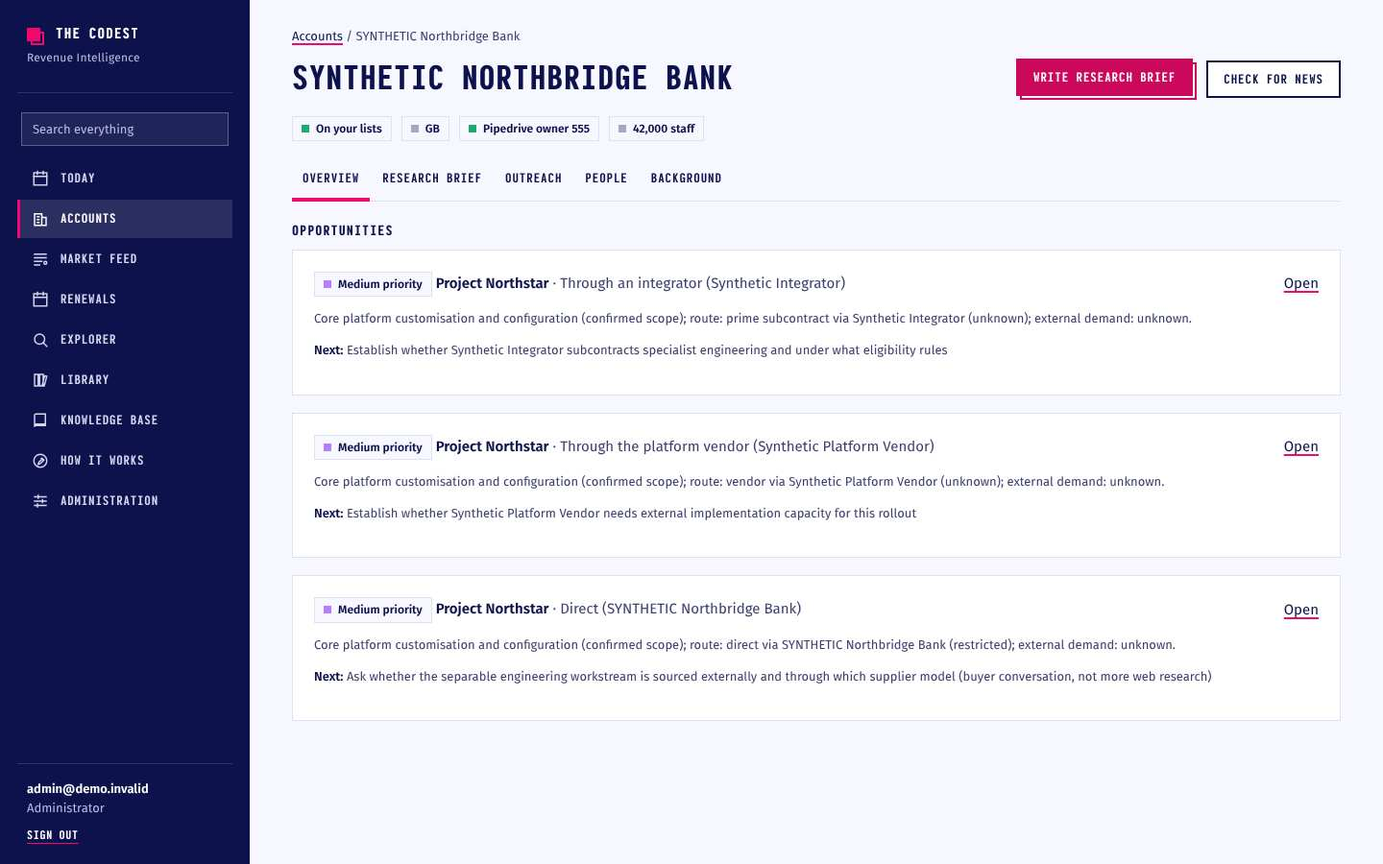
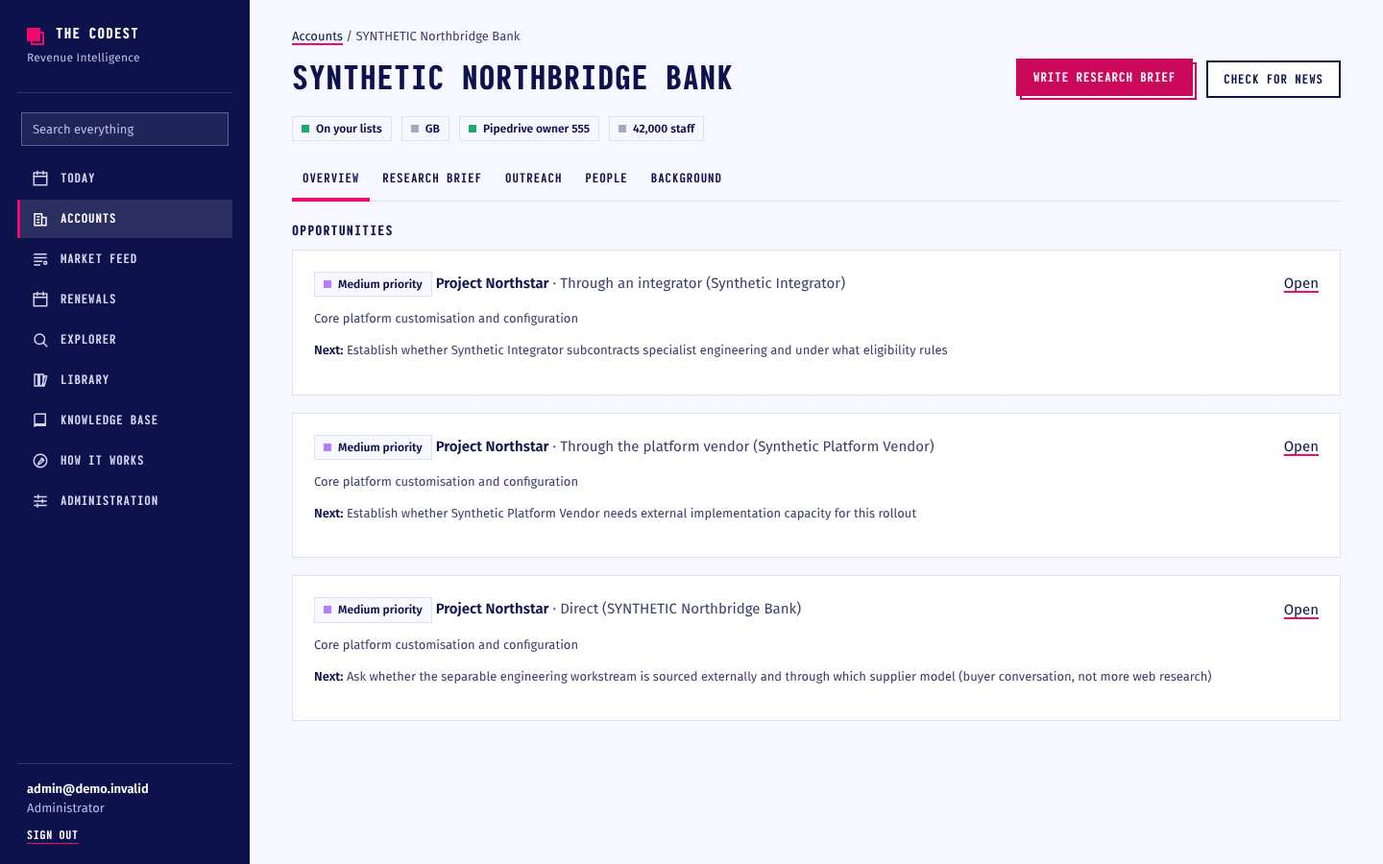
frontend: loading skeletons, retryable errors, Today grouped by programme
- Skeleton component replaces bare 'Loading' text; Today keeps its header while loading
  or failing; page-level errors offer Try again.
- Today: opportunities on the same programme share one heading with a compact card per
  route; hero trimmed to urgent / to review / shortlist.
- whyShort() drops the machine-written route clause that the facts already show.
Build and type-check pass.

Claude-Session: https://claude.ai/code/session_01NLtKuu7bmFR7Yku9N5QKAP

diff --git a/frontend/src/pages/Today.tsx b/frontend/src/pages/Today.tsx
@@ -1,7 +1,7 @@
 import { useEffect, useState } from "react";
 import { Link } from "react-router-dom";
 import { api, fmtDate, fmtDateTime, post } from "../api";
-import { Badge, Coverage, Err, Evidence, Fact, accessKind, demandKind, groupName, humanize, lab, priorityKind, unknownText, verdict } from "../components/ui";
+import { Badge, Coverage, Err, Evidence, Fact, accessKind, demandKind, groupName, humanize, lab, priorityKind, unknownText, verdict, Skeleton, whyShort } from "../components/ui";
 import Prospects from "./Prospects";
 
 const SECTIONS: [string, string][] = [["critical", "Urgent"], ["existing_accounts", "News on your accounts"], ["new_discoveries", "New companies worth a look"],
@@ -20,19 +20,20 @@ function Deadlines() {
     </tbody></table></div></section>;
 }
 
-function Card({ c, reload }: { c: any; reload: () => void }) {
+function Card({ c, reload, compact = false }: { c: any; reload: () => void; compact?: boolean }) {
   const [open, setOpen] = useState(false);
   const [reason, setReason] = useState("");
   const [err, setErr] = useState<unknown>(null);
   const decide = async (decision: string, r?: string) => { try { await post(`/api/hypotheses/${c.hypothesis_id}/decision`, { decision, reason: r }); reload(); } catch (e) { setErr(e); } };
   const a = c.next_action;
   return (
-    <article className={`opp ${c.priority}`} aria-label={`${c.account.name}: ${c.initiative.title}`}>
+    <article className={`opp ${c.priority}${compact ? " compact" : ""}`} aria-label={`${c.account.name}: ${c.initiative.title}, ${lab("route", c.route.type)}`}>
       <div className="opp-head">
         <div>
-          <div className="opp-title">{c.account.name}</div>
-          <div className="opp-init">{c.initiative.title}
-            {c.initiative.working_title_label && <Badge kind="warn">{c.initiative.working_title_label}</Badge>}<Badge>{humanize(c.initiative.stage)}</Badge></div>
+          {compact ? <div className="opp-title">{lab("route", c.route.type)} <span className="small muted">({c.route.counterparty})</span></div> : <>
+            <div className="opp-title">{c.account.name}</div>
+            <div className="opp-init">{c.initiative.title}
+              {c.initiative.working_title_label && <Badge kind="warn">{c.initiative.working_title_label}</Badge>}<Badge>{humanize(c.initiative.stage)}</Badge></div></>}
         </div>
         <div className="row start">
           <Badge kind={priorityKind(c.priority)}>{lab("priority", c.priority)}</Badge>
@@ -44,10 +45,10 @@ function Card({ c, reload }: { c: any; reload: () => void }) {
         <div className="opp-body">
           {(() => { const v = verdict(c); return <div className={`verdict ${v.kind}`}><span className="k">What to do</span>{v.text}</div>; })()}
           {c.tender && <div className="tender"><Badge kind="bad">Tender</Badge> Closes <b>{fmtDateTime(c.tender.deadline_at)}</b> ({c.tender.deadline_tz ?? "timezone not given"}). We last checked it was still open on {fmtDateTime(c.tender.last_status_check_at)}.</div>}
-          <p><span className="k">What happened</span>{c.what_happened.summary ?? "No summary"}
-            <span className="prov"> Happened {fmtDate(c.what_happened.event_date)} · we saw it {fmtDate(c.what_happened.first_observed)}</span></p>
+          {!compact && <p><span className="k">What happened</span>{c.what_happened.summary ?? "No summary"}
+            <span className="prov"> Happened {fmtDate(c.what_happened.event_date)} · we saw it {fmtDate(c.what_happened.first_observed)}</span></p>}
           {c.plain_reason && <p><span className="k">In short</span>{c.plain_reason}</p>}
-          <p><span className="k">Why it matters</span>{c.why_it_matters}</p>
+          {!compact && <p><span className="k">Why it matters</span>{whyShort(c.why_it_matters)}</p>}
           <div className="facts">
             <Fact label="Will they use outside help?" value={lab("demand", c.external_demand_status)} kind={demandKind(c.external_demand_status)} />
             <Fact label="How we would get in" value={`${lab("route", c.route.type)} (${c.route.counterparty}): ${lab("access", c.route.access_status).toLowerCase()}`} kind={accessKind(c.route.access_status)} />
@@ -87,14 +88,34 @@ function Card({ c, reload }: { c: any; reload: () => void }) {
   );
 }
 
+/** Several opportunities on the same programme (one per route in) are shown as one group so the same news is not repeated. */
+function groups(cards: any[]): any[][] {
+  const out: any[][] = [];
+  cards.forEach((c) => { const g = out.find((x) => x[0].initiative.id === c.initiative.id && x[0].account.id === c.account.id); g ? g.push(c) : out.push([c]); });
+  return out;
+}
+function Group({ g, reload }: { g: any[]; reload: () => void }) {
+  if (g.length === 1) return <Card c={g[0]} reload={reload} />;
+  const c = g[0];
+  return (
+    <div className="progr">
+      <div className="progr-head"><div className="opp-title">{c.account.name}</div>
+        <div className="opp-init">{c.initiative.title}<Badge>{humanize(c.initiative.stage)}</Badge><Badge kind="info">{g.length} ways in</Badge></div>
+        <p className="mt-2 mb-0"><b>What happened:</b> {c.what_happened.summary ?? "No summary"} <span className="prov">Happened {fmtDate(c.what_happened.event_date)}</span></p>
+        <p className="small muted mt-1 mb-0">{whyShort(c.why_it_matters)}. Each way in below has its own next step.</p></div>
+      {g.map((x) => <Card key={x.hypothesis_id} c={x} reload={reload} compact />)}
+    </div>
+  );
+}
+
 export default function Today() {
   const [d, setD] = useState<any>(null);
   const [ov, setOv] = useState<any>(null);
   const [err, setErr] = useState<unknown>(null);
-  const load = () => api("/api/today").then(setD).catch(setErr);
+  const load = () => { setErr(null); return api("/api/today").then(setD).catch(setErr); };
   useEffect(() => { load(); api("/api/overview").then(setOv).catch(() => undefined); }, []);
-  if (err) return <div className="page"><Err e={err} /></div>;
-  if (!d) return <div className="page muted">Loading Today…</div>;
+  if (err) return <div className="page"><div className="page-head"><div className="eyebrow">Your day</div><h1>Today</h1></div><Err e={err} onRetry={load} /></div>;
+  if (!d) return <div className="page"><div className="page-head"><div className="eyebrow">Your day</div><h1>Today</h1></div><Skeleton rows={4} label="Loading Today" /></div>;
   const all: any[] = Object.values(d.sections).flat() as any[];
   const count = (f: (c: any) => boolean) => all.filter(f).length;
   return (
@@ -107,8 +128,6 @@ export default function Today() {
           <div className="stat urgent"><div className="n">{count((c) => c.priority === "urgent")}</div><div className="l">Urgent</div></div>
           <div className="stat"><div className="n">{d.count}</div><div className="l">To review</div></div>
           <div className="stat"><div className="n">{ov ? ov.shortlist : "·"}</div><div className="l">On your shortlist</div></div>
-          <div className="stat"><div className="n">{ov ? ov.accounts.toLocaleString() : "·"}</div><div className="l">Accounts</div></div>
-          <div className="stat"><div className="n">{ov ? ov.sources_live : d.coverage.monitored_sources}<span className="of">/{ov ? ov.sources_total : d.coverage.monitored_sources + d.coverage.pending_validation_sources}</span></div><div className="l">Sources switched on</div></div>
         </div>
       </header>
       <div className="page pt-5">
@@ -121,7 +140,7 @@ export default function Today() {
               <td className="small">{a.signal_count} · {a.groups.map(groupName).join(", ")}</td><td className="small">{a.last_signal_at ? fmtDate(a.last_signal_at) : "None yet"}</td></tr>)}
           </tbody></table></div></section>}
         <Deadlines />
-        {SECTIONS.map(([k, label]) => (d.sections[k]?.length ? <section key={k}><div className="section-title">{label}</div>{k === "public_tenders" && <p className="small muted sec-note">{TENDER_NOTE}</p>}{d.sections[k].map((c: any) => <Card key={c.hypothesis_id} c={c} reload={load} />)}</section> : null))}
+        {SECTIONS.map(([k, label]) => (d.sections[k]?.length ? <section key={k}><div className="section-title">{label}</div>{k === "public_tenders" && <p className="small muted sec-note">{TENDER_NOTE}</p>}{groups(d.sections[k]).map((g) => <Group key={g[0].hypothesis_id} g={g} reload={load} />)}</section> : null))}
         <Prospects />
       </div>
     </>

diff --git a/frontend/src/pages/Accounts.tsx b/frontend/src/pages/Accounts.tsx
@@ -2,7 +2,7 @@ import { useEffect, useState } from "react";
 import { Link, useNavigate, useParams } from "react-router-dom";
 import { api, fmtDate, fmtDateTime, post } from "../api";
 const del = (p: string) => api(p, { method: "DELETE" });
-import { Badge, Err, Evidence, LABELS, groupName, humanize, lab, priorityKind } from "../components/ui";
+import { Badge, Err, Evidence, LABELS, groupName, humanize, lab, priorityKind, Skeleton, reloadPage, whyShort } from "../components/ui";
 
 function AddCompany({ onClose }: { onClose: () => void }) {
   const nav = useNavigate();
@@ -232,8 +232,8 @@ export function Account({ me }: { me: { permissions: string[] } }) {
   const loadCamps = () => api(`/api/accounts/${id}/campaigns`).then(setCamps).catch(() => setCamps({ items: [] }));
   useEffect(() => { loadCamps(); }, [id]);
   useEffect(() => { if (!camps.items.some((b: any) => b.status === "queued" || b.status === "running")) return; const t = setInterval(loadCamps, 6000); return () => clearInterval(t); }, [camps]);
-  if (err) return <Err e={err} />;
-  if (!d) return <div aria-busy="true"><div className="eyebrow">Account</div><p className="muted">Loading the account…</p></div>;
+  if (err) return <><p className="small mt-0"><Link to="/accounts">Accounts</Link></p><Err e={err} onRetry={reloadPage} /></>;
+  if (!d) return <><p className="small mt-0"><Link to="/accounts">Accounts</Link></p><Skeleton rows={4} label="Loading the account" /></>;
   const a = d.account;
   const canScan = me.permissions.includes("research.request");
   const makeCampaign = async (role: string) => { try { await post(`/api/accounts/${id}/campaign`, { role: role || null }); await loadCamps(); } catch (e) { setScan({ busy: false, msg: "", err: e }); } };
@@ -262,7 +262,7 @@ export function Account({ me }: { me: { permissions: string[] } }) {
         {d.opportunities.length === 0 && <div className="empty"><b>No opportunities yet</b>One appears when checked signals point to a concrete piece of work. Press “Check for news” to look for some.</div>}
         {d.opportunities.map((o: any) => (
           <div key={o.hypothesis_id} className="card"><div className="row spread"><div><Badge kind={priorityKind(o.priority)}>{lab("priority", o.priority)}</Badge> <b>{o.initiative.title}</b> · {lab("route", o.route.type)} ({o.route.counterparty})</div><Link to={`/opportunities/${o.hypothesis_id}`}>Open</Link></div>
-            <p className="small">{o.plain_reason ?? o.why_it_matters}</p>{o.next_action && <p className="small"><b>Next:</b> {o.next_action.objective}</p>}</div>))}
+            <p className="small">{o.plain_reason ?? whyShort(o.why_it_matters)}</p>{o.next_action && <p className="small"><b>Next:</b> {o.next_action.objective}</p>}</div>))}
       </>)}
       {tab === "Research brief" && <BriefTab briefs={briefs} />}
       {tab === "Outreach" && <CampaignTab camps={camps} canDraft={me.permissions.includes("draft.create")} orgId={String(id)} make={makeCampaign} decide={decideCampaign} />}

diff --git a/frontend/src/pages/Opportunity.tsx b/frontend/src/pages/Opportunity.tsx
@@ -1,7 +1,7 @@
 import { useEffect, useState } from "react";
 import { Link, useParams } from "react-router-dom";
 import { api, fmtDateTime, post } from "../api";
-import { Badge, Err, Evidence, GateBar, PageHeader, humanize, lab, priorityKind, unknownText, verdict } from "../components/ui";
+import { Badge, Err, Evidence, GateBar, PageHeader, humanize, lab, priorityKind, unknownText, verdict, Skeleton, reloadPage, whyShort } from "../components/ui";
 
 export default function Opportunity({ me }: { me: { permissions: string[] } }) {
   const { id } = useParams();
@@ -14,8 +14,8 @@ export default function Opportunity({ me }: { me: { permissions: string[] } }) {
   const [proposal, setProposal] = useState<any>(null);
   const load = () => { Promise.all([api(`/api/hypotheses/${id}`), api(`/api/hypotheses/${id}/playbook`)]).then(([a, b]) => { setD(a); setPb(b); }).catch(setErr); };
   useEffect(load, [id]);
-  if (err && !d) return <Err e={err} />;
-  if (!d || !pb) return <p className="muted">Loading the opportunity…</p>;
+  if (err && !d) return <Err e={err} onRetry={reloadPage} />;
+  if (!d || !pb) return <Skeleton />;
   const can = (p: string) => me.permissions.includes(p);
   const run = async (f: () => Promise<any>, ok: string) => { setErr(null); setMsg(""); try { await f(); setMsg(ok); load(); } catch (e) { setErr(e); } };
   const a = d.next_action;
@@ -35,7 +35,7 @@ export default function Opportunity({ me }: { me: { permissions: string[] } }) {
       <div className="ws mt-2">
         <div>
           <div className="section-title">What happened and why it matters</div>
-          <div className="card"><p className="mt-0"><b>What happened:</b> {d.what_happened.summary}</p><p><b>Why it matters:</b> {d.why_it_matters}</p><Evidence items={d.evidence} hypothesisId={id} /></div>
+          <div className="card"><p className="mt-0"><b>What happened:</b> {d.what_happened.summary}</p><p><b>Why it matters:</b> {whyShort(d.why_it_matters)}</p><Evidence items={d.evidence} hypothesisId={id} /></div>
 
           <div className="section-title">What we know and what we are guessing</div>
           <div className="card"><Badge kind={pb.meeting_brief.buyer_confirmed ? "ok" : "warn"}>{pb.meeting_brief.buyer_confirmed ? "The buyer has confirmed the need" : "The buyer has not confirmed the need yet"}</Badge>

diff --git a/frontend/src/pages/Feed.tsx b/frontend/src/pages/Feed.tsx
@@ -1,7 +1,7 @@
 import { useEffect, useState } from "react";
 import { Link } from "react-router-dom";
 import { api, fmtDate, post, trackSourceOpened } from "../api";
-import { Badge, Err, TIER, lab } from "../components/ui";
+import { Badge, Err, Skeleton, TIER, lab, reloadPage } from "../components/ui";
 const SERVICE: Record<string, string> = { staff_augmentation: "Staff Augmentation", team_extension: "Team Extension", ai_services: "AI Services" };
 const LANG: Record<string, string> = { de: "German", pl: "Polish", sv: "Swedish", no: "Norwegian", nb: "Norwegian", da: "Danish", fi: "Finnish", fr: "French", nl: "Dutch", es: "Spanish", it: "Italian", is: "Icelandic" };
 
@@ -36,7 +36,8 @@ export default function Feed() {
         {view === "accounts" && <label className="small row"><input type="checkbox" checked={core} onChange={(e) => setCore(e.target.checked)} /> Main markets only</label>}
         <label className="small row"><input type="checkbox" checked={fitOnly} onChange={(e) => setFitOnly(e.target.checked)} /> <span title="Hides findings that none of our sales plays match to a service">Only likely work for us</span></label>
       </div>
-      <Err e={err} />
+      <Err e={err} onRetry={reloadPage} />
+      {!d && !err && <Skeleton rows={3} label="Loading the feed" />}
       {cov && !cov.all_monitored_healthy && <div className={`cov ${cov.no_active_monitoring ? "bad" : ""}`}><b>Source health.</b> {cov.no_active_monitoring ? "No source is switched on yet, so this feed only shows what you checked yourself or what search found. A quiet feed says nothing about the market." : `${cov.unhealthy.length} ${cov.unhealthy.length === 1 ? "source is" : "sources are"} having problems: ${cov.unhealthy.map((u: any) => u.source).join(", ")}.`} <Link to="/admin/pipeline">See what is running</Link></div>}
       {d && d.count === 0 && <div className="empty"><b>Nothing checked in this window</b>Check a company from Today, switch sources on in Administration, or widen the filters. {d.totals.unverified > 0 && `${d.totals.unverified} ${d.totals.unverified === 1 ? "item is" : "items are"} not checked yet, so ${d.totals.unverified === 1 ? "it is" : "they are"} not shown.`}</div>}
       <div className="feed-grid">

diff --git a/frontend/src/pages/Admin.tsx b/frontend/src/pages/Admin.tsx
@@ -1,7 +1,7 @@
 import { useEffect, useState } from "react";
 import { NavLink, Route, Routes } from "react-router-dom";
 import { api, fmtDateTime, post, put, upload, patch } from "../api";
-import { Badge, Err, humanize, lab } from "../components/ui";
+import { Badge, Err, humanize, lab, Skeleton } from "../components/ui";
 import Library from "./Library";
 import { KnowledgeAdmin, Pipeline } from "./PipelineStatus";
 import Usage from "./Usage";
@@ -13,7 +13,7 @@ function Load({ path, children }: { path: string; children: (d: any, reload: () 
   const reload = () => api(path).then(setD).catch(setErr);
   useEffect(() => { reload(); }, [path]);
   if (err) return <Err e={err} onRetry={reload} />;
-  return d ? children(d, reload) : <p className="muted" aria-busy="true">Loading…</p>;
+  return d ? children(d, reload) : <Skeleton />;
 }
 
 function SourceControls({ s, can, reload }: { s: any; can: boolean; reload: () => void }) {
@@ -278,7 +278,7 @@ function Imports() {
         <p className="small muted mb-0">Uploading the same file again changes nothing. We delete the file after loading it and keep only its fingerprint and the result.</p>
       </div>
       <h3>Recent uploads</h3>
-      {!d ? <p className="muted">Loading</p> : d.uploads.length === 0 ? <div className="empty">No uploads yet.</div> :
+      {!d ? <Skeleton /> : d.uploads.length === 0 ? <div className="empty">No uploads yet.</div> :
         <div className="card table-wrap"><table><thead><tr><th>When</th><th>File</th><th>Workbook</th><th>Status</th><th>Detail</th></tr></thead><tbody>{d.uploads.map((u: any) => {
           const tabs = u.stats?.tabs ? Object.entries(u.stats.tabs) as [string, any][] : [];
           return <tr key={u.id}><td>{fmtDateTime(u.created_at)}</td><td>{u.filename}<div className="small muted">{u.uploaded_by}</div></td><td>{u.workbook_key}</td>

diff --git a/frontend/src/pages/PipelineStatus.tsx b/frontend/src/pages/PipelineStatus.tsx
@@ -1,6 +1,6 @@
 import { useEffect, useState } from "react";
 import { api, fmtDateTime, upload } from "../api";
-import { Badge, Err, humanize } from "../components/ui";
+import { Badge, Err, humanize, Skeleton, reloadPage } from "../components/ui";
 
 const STATE: Record<string, [string, string]> = { ok: ["ok", "Running"], waiting: ["warn", "Waiting for you"], stale: ["bad", "Stopped reporting"], never: ["bad", "Never reported"], off: ["", "Switched off"] };
 
@@ -29,8 +29,8 @@ export function Pipeline() {
   const [d, setD] = useState<any>(null); const [err, setErr] = useState<unknown>(null);
   const load = () => api("/api/admin/pipeline").then(setD).catch(setErr);
   useEffect(() => { load(); const t = setInterval(load, 15000); return () => clearInterval(t); }, []);
-  if (err) return <Err e={err} />;
-  if (!d) return <p className="muted" aria-busy="true">Loading…</p>;
+  if (err) return <Err e={err} onRetry={reloadPage} />;
+  if (!d) return <Skeleton />;
   return (
     <>
       <p className="small muted mt-0">What runs by itself, what waits for a person, and what is switched off. This page shows what is happening now, not what is planned.</p>
@@ -72,7 +72,7 @@ export function KnowledgeAdmin() {
     if (!f) return; setErr(null); setMsg("");
     try { const r = await upload(`/api/admin/kb/${id}`, f); setMsg(`Uploaded (${(r.bytes / 1024).toFixed(0)} KB). It can be searched now.`); load(); } catch (e) { setErr(e); }
   };
-  if (!d) return <p className="muted">Loading</p>;
+  if (!d) return <Skeleton />;
   return (
     <>
       <p className="small muted mt-0">These internal documents are kept behind sign-in and shown through short-lived links. They are never public. Upload the .html file for each one.</p>

diff --git a/frontend/src/pages/Renewals.tsx b/frontend/src/pages/Renewals.tsx
@@ -1,7 +1,7 @@
 import { useEffect, useState } from "react";
 import { Link } from "react-router-dom";
 import { api, fmtDate } from "../api";
-import { Badge, Err } from "../components/ui";
+import { Badge, Err, Skeleton, reloadPage } from "../components/ui";
 
 const COUNTRY: Record<string, string> = { GB: "UK", DE: "Germany", AT: "Austria", CH: "Switzerland", SE: "Sweden", DK: "Denmark", NO: "Norway", FI: "Finland", PL: "Poland" };
 const SIZE: Record<string, string> = { sme: "small or medium company", large: "large company" };
@@ -34,7 +34,7 @@ export default function Renewals() {
         {tab === "ending" && <select aria-label="Ending within" value={months} onChange={(e) => setMonths(Number(e.target.value))}>{[6, 12, 18, 24, 36].map((m) => <option key={m} value={m}>Ending within {m} months</option>)}</select>}
         {tab === "ending" && <label className="small"><input type="checkbox" checked={stated} onChange={(e) => setStated(e.target.checked)} /> Only contracts with a stated length</label>}
       </div>
-      {err ? <Err e={err} /> : !d ? <p className="muted">Loading contracts…</p> : tab === "ending" ? (
+      {err ? <Err e={err} onRetry={reloadPage} /> : !d ? <Skeleton /> : tab === "ending" ? (
         <>
           <p className="small muted">{d.items.length === 0 ? "Nothing matches." : `${d.items.length} ${d.items.length === 1 ? "contract" : "contracts"}, ending soonest first.`} {d.contracts_known > 0 && `We hold ${d.contracts_known.toLocaleString()} IT contract awards since ${fmtDate(d.records_since)}.`}</p>
           {d.contracts_known === 0 && <div className="empty">We are still loading the contract history. It fills in over the next few hours, so check back later.</div>}

diff --git a/frontend/src/pages/LibraryHub.tsx b/frontend/src/pages/LibraryHub.tsx
@@ -1,7 +1,7 @@
 import { useEffect, useState } from "react";
 import { useSearchParams } from "react-router-dom";
 import { api } from "../api";
-import { Badge, Err, humanize } from "../components/ui";
+import { Badge, Err, humanize, Skeleton, reloadPage } from "../components/ui";
 import Library from "./Library";
 
 type Tab = "signals" | "sources" | "urls";
@@ -14,8 +14,8 @@ function Signals({ q }: { q: string }) {
   const [group, setGroup] = useState(""); const [status, setStatus] = useState("");
   const [d, setD] = useState<any>(null); const [err, setErr] = useState<unknown>(null);
   useEffect(() => { api(`/api/library/signals?q=${encodeURIComponent(q)}&group=${encodeURIComponent(group)}&status=${status}`).then(setD).catch(setErr); }, [q, group, status]);
-  if (err) return <Err e={err} />;
-  if (!d) return <p className="muted">Loading…</p>;
+  if (err) return <Err e={err} onRetry={reloadPage} />;
+  if (!d) return <Skeleton />;
   return (
     <>
       <div className="row mb-3">
@@ -50,8 +50,8 @@ function Signals({ q }: { q: string }) {
 function Urls({ q, setQ }: { q: string; setQ: (v: string) => void }) {
   const [d, setD] = useState<any>(null); const [err, setErr] = useState<unknown>(null);
   useEffect(() => { const t = setTimeout(() => api(`/api/library/urls?q=${encodeURIComponent(q)}&limit=80`).then(setD).catch(setErr), q ? 250 : 0); return () => clearTimeout(t); }, [q]);
-  if (err) return <Err e={err} />;
-  if (!d) return <p className="muted">Loading…</p>;
+  if (err) return <Err e={err} onRetry={reloadPage} />;
+  if (!d) return <Skeleton />;
   return (
     <>
       <div className="section-title mt-0">Pages and feeds we watch</div>

diff --git a/frontend/src/pages/Knowledge.tsx b/frontend/src/pages/Knowledge.tsx
@@ -1,7 +1,7 @@
 import { useEffect, useState } from "react";
 import { useNavigate, useParams } from "react-router-dom";
 import { api, post } from "../api";
-import { Err } from "../components/ui";
+import { Err, Skeleton } from "../components/ui";
 
 export default function Knowledge() {
   const { doc } = useParams();
@@ -28,7 +28,7 @@ export default function Knowledge() {
       <div className="tabs" role="tablist">{docs.map((d) => <button key={d.id} role="tab" aria-selected={d.id === current} onClick={() => nav(`/knowledge/${d.id}`)}>{d.title}</button>)}</div>
       <Err e={err} />
       {meta && <p className="small muted mt-0">{meta.blurb} Internal only: do not share with prospects. This is a copy of the <a href={meta.source} target="_blank" rel="noreferrer noopener">original document</a>. Ask an administrator to refresh it when the original changes.</p>}
-      {missing ? <div className="empty"><b>This document is not loaded yet</b>An administrator can upload it in Administration, Knowledge.</div> : src ? <iframe className="kb-frame" title={meta?.title ?? "Knowledge base"} src={src} sandbox="allow-scripts allow-popups allow-modals allow-downloads" referrerPolicy="no-referrer" /> : <p className="muted">Loading the document…</p>}
+      {missing ? <div className="empty"><b>This document is not loaded yet</b>An administrator can upload it in Administration, Knowledge.</div> : src ? <iframe className="kb-frame" title={meta?.title ?? "Knowledge base"} src={src} sandbox="allow-scripts allow-popups allow-modals allow-downloads" referrerPolicy="no-referrer" /> : <Skeleton />}
     </>
   );
 }

diff --git a/frontend/src/components/ui.tsx b/frontend/src/components/ui.tsx
@@ -182,6 +182,13 @@ export function Err({ e, onRetry }: { e: unknown; onRetry?: () => void }) {
     : st === 404 ? "This item no longer exists or has moved." : (st && st >= 500) || net ? "The server did not respond. Try again in a minute." : null;
   return <div className="err" role="alert">{plain ?? msg}{plain && msg && !net && <details><summary>Technical detail</summary>{msg}</details>}{onRetry && <div className="mt-2"><button onClick={onRetry}>Try again</button></div>}</div>;
 }
+/** Placeholder shown while a screen loads: same footprint as the content, so nothing jumps when it arrives. */
+export const Skeleton = ({ rows = 3, label = "Loading" }: { rows?: number; label?: string }) => (
+  <div className="skel" role="status" aria-busy="true" aria-label={label}>{Array.from({ length: rows }, (_, i) => <div key={i} className="skel-row" />)}</div>
+);
+/** The backend appends "; route: …; external demand: …" to this sentence. Both are already shown as facts, so keep only the first clause. */
+export const whyShort = (s?: string | null) => String(s ?? "").split(/;\s*route:/)[0].replace(/\s*\(confirmed scope\)/, "");
+export const reloadPage = () => window.location.reload();
 export const Empty = ({ title, children }: { title: string; children?: ReactNode }) => <div className="empty"><b>{title}</b>{children}</div>;
 
 /** Brand mark: the official logo file when it has been supplied, otherwise the plain text mark. Never redrawn here. */

diff --git a/frontend/src/pages/Library.tsx b/frontend/src/pages/Library.tsx
@@ -1,6 +1,6 @@
 import { useEffect, useState } from "react";
 import { api, fmtDateTime } from "../api";
-import { Badge, Err, humanize } from "../components/ui";
+import { Badge, Err, humanize, Skeleton, reloadPage } from "../components/ui";
 
 const TIERS: Record<string, string> = { S1: "Official records", S2: "Company\u2019s own sites", S3: "Vendors and integrators", S4: "Trade press", S5: "Search finds", internal: "Internal" };
 const hk = (s: string) => (s === "healthy" ? "ok" : !s || s === "unconfigured" || s === "paused" ? "" : "bad");
@@ -13,8 +13,8 @@ export default function Library({ render, query, canSetup = true }: { render: (s
   const q = query ?? qLocal;
   const load = () => api("/api/admin/library").then(setD).catch(setErr);
   useEffect(() => { load(); }, []);
-  if (err) return <Err e={err} />;
-  if (!d) return <p className="muted">Loading sources…</p>;
+  if (err) return <Err e={err} onRetry={reloadPage} />;
+  if (!d) return <Skeleton />;
   const items = d.items.filter((s: any) => !q || `${s.display_name} ${s.source_id} ${s.provider}`.toLowerCase().includes(q.toLowerCase()));
   const groups = Object.keys(TIERS).map((t) => [t, items.filter((s: any) => s.source_tier === t)] as [string, any[]]).filter(([, l]) => l.length);
   const live = d.items.filter((s: any) => s.status === "active" && s.collection_method !== "internal").length;

diff --git a/frontend/src/pages/Pipeline.tsx b/frontend/src/pages/Pipeline.tsx
@@ -1,6 +1,6 @@
 import { useEffect, useState } from "react";
 import { api, fmtDateTime, patch, post } from "../api";
-import { Badge, Err, humanize } from "../components/ui";
+import { Badge, Err, humanize, Skeleton, reloadPage } from "../components/ui";
 
 const VLABEL: Record<string, string> = { verified: "Checked", failed: "Could not check", blocked: "Page not allowed", waiting_budget: "Waiting for AI budget", no_event: "Nothing quotable", queued: "Waiting", fetching: "Reading", extracting: "Finding events" };
 const vk = (s: string) => (s === "verified" ? "ok" : s === "failed" || s === "blocked" ? "bad" : s === "waiting_budget" ? "warn" : s === "no_event" ? "" : "info");
@@ -31,8 +31,8 @@ export function Discovery() {
   const load = () => api("/api/admin/discovery").then(setD).catch(setErr);
   useEffect(() => { load(); }, []);
   const run = async (ids?: string[]) => { setErr(null); try { await post("/api/admin/discovery/run", { plan_ids: ids ?? null }); setMsg("Started. It should begin within a few seconds, and results appear under Pages being checked."); load(); } catch (e) { setErr(e); } };
-  if (err && !d) return <Err e={err} />;
-  if (!d) return <p className="muted" aria-busy="true">Loading…</p>;
+  if (err && !d) return <Err e={err} onRetry={reloadPage} />;
+  if (!d) return <Skeleton />;
   const b = d.budget;
   return (
     <>
